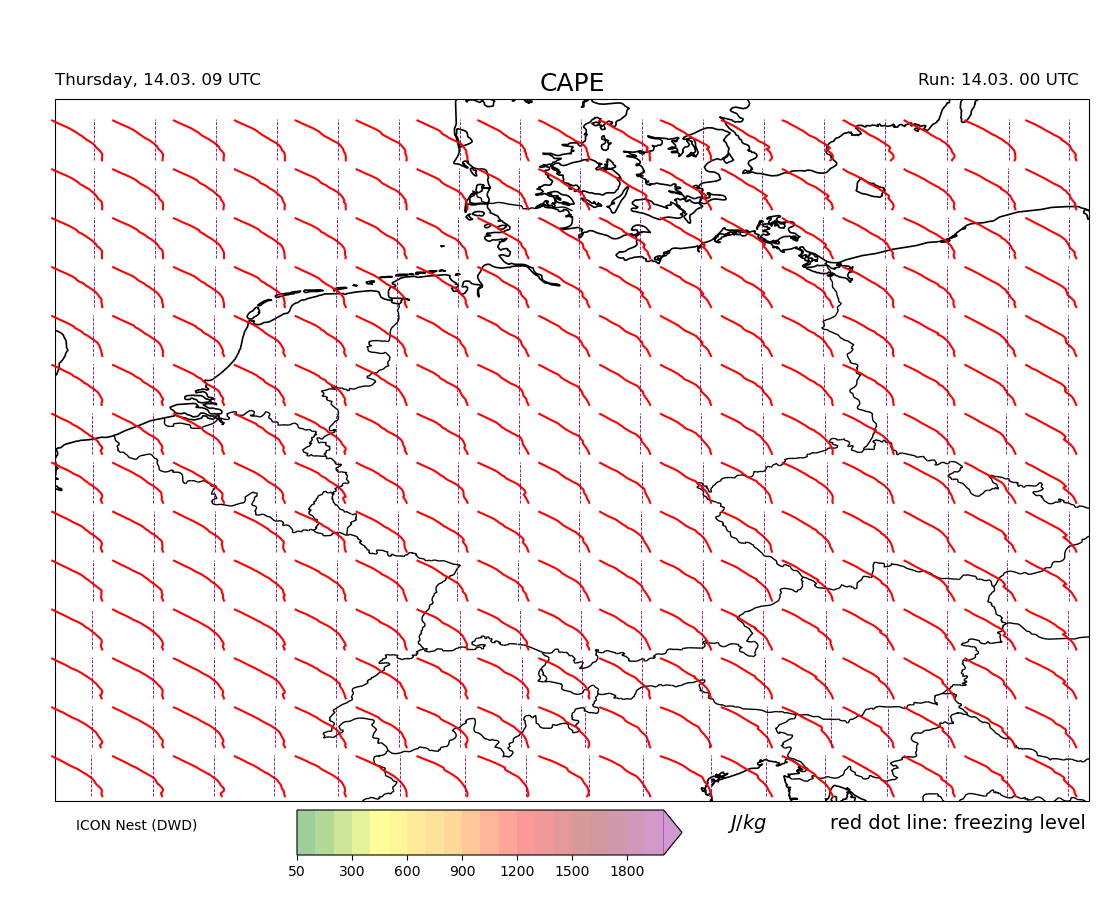
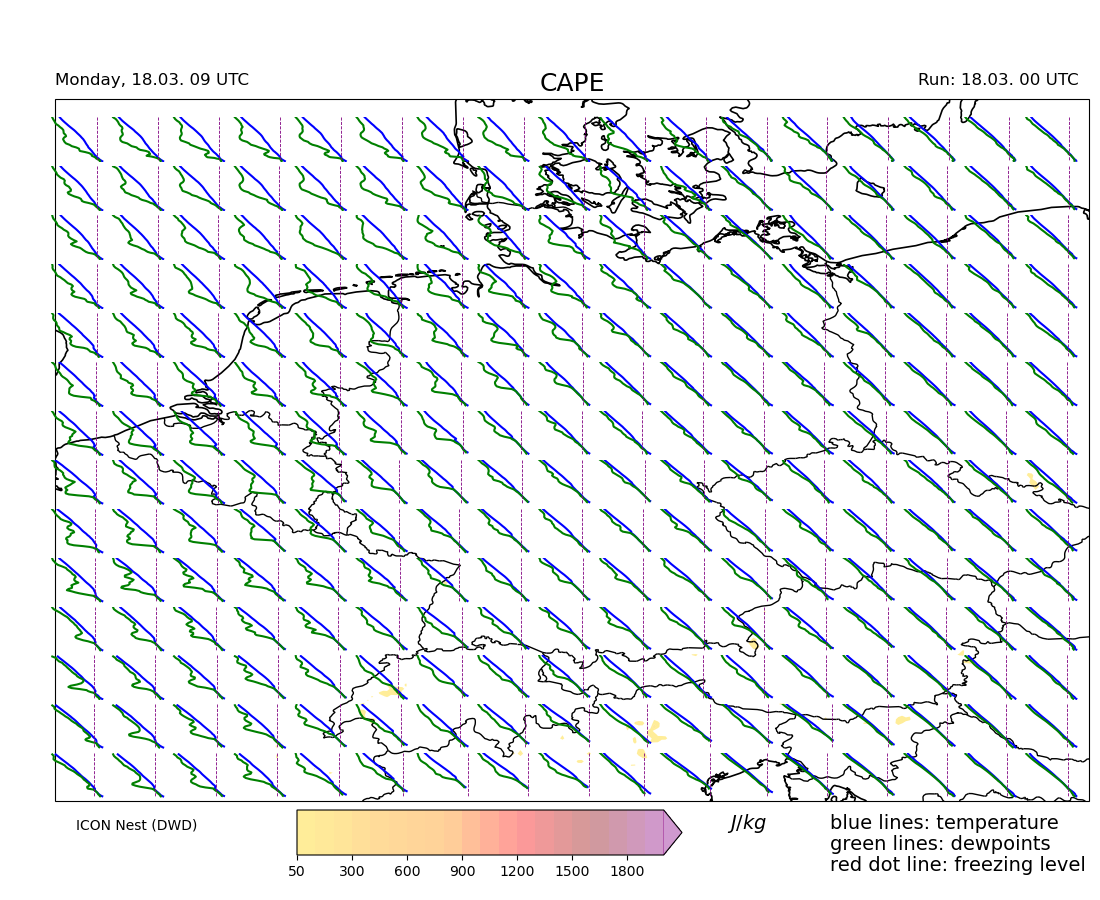
Add Stuve/Dewpoint

diff --git a/src/plotlib.py b/src/plotlib.py
@@ -8,6 +8,7 @@ import matplotlib
 matplotlib.use('Agg')
 import matplotlib.pyplot as plt
 from matplotlib.colors import LinearSegmentedColormap  # ListedColormap, BoundaryNorm,
+from matplotlib.projections import register_projection
 
 # cartopy
 import cartopy.crs as crs
@@ -18,7 +19,8 @@ states_provinces = cfeature.NaturalEarthFeature(
 
 # own moduls
 import utilitylib as ut
-import kinematiclib as kin
+import meteolib as met
+from skewT import *
 
 # ---------------------------------------------------------------------------------------------------------------------
 # create plot class
@@ -114,6 +116,7 @@ def two_plots(projection=crs.EuroPP(), lon1=3.56, lon2=16.5, lat1=46.2, lat2=55.
 clevs = np.array([50, 100, 200, 300, 400, 500, 600, 700, 800, 900, 1000,
                   1100, 1200, 1300, 1400, 1500, 1600, 1700, 1800, 1900, 2000])
 cmap = LinearSegmentedColormap.from_list("", ["green", "yellow", "orange", "red", "darkred", "darkmagenta"])
+cmap2= LinearSegmentedColormap.from_list("", ["gold", "orange", "darkorange", "red", "darkred", "darkmagenta"])
 
 # ---------------------------------------------------------------------------------------------------------------------
 
@@ -148,7 +151,7 @@ def test_plot (cape_fld, lats, lons, hour, run, titel='CAPE'):
 
 # ---------------------------------------------------------------------------------------------------------------------
 
-def soundingpoint(point, temp, ax, width=0.1, proj='polar', smooth=False):
+def soundingpoint(point, temp, q, pres, ax, width=0.1, proj='skewT', smooth=False):
     """
     Parameters:
     ------------
@@ -161,6 +164,7 @@ def soundingpoint(point, temp, ax, width=0.1, proj='polar', smooth=False):
     --------
     None
     """
+    register_projection(SkewXAxes)
 
     # this takes us from the data coordinates to the display coordinates.
     test = ax.transData.transform(point)
@@ -169,7 +173,7 @@ def soundingpoint(point, temp, ax, width=0.1, proj='polar', smooth=False):
     trans = ax.transAxes.inverted().transform(test)
 
     # create new axes
-    ax2 = plt.axes([trans[0]-width/2, trans[1]-width/2, width, width])
+    ax2 = plt.axes([trans[0]-width/2, trans[1]-width/2, width, width])  # , projection='skewx')
 
     ax2.get_xaxis().set_visible(False)
     ax2.get_yaxis().set_visible(False)
@@ -183,18 +187,23 @@ def soundingpoint(point, temp, ax, width=0.1, proj='polar', smooth=False):
     # ax2.plot(np.linspace(0, 2*np.pi, 100), np.zeros(100)+30, '-k', alpha=.3, lw=0.8)
 
     # calculate dewpoint
+    pres /= 100
+    dewpoint = met.temp_at_mixrat( met.q_to_mixrat(q)*1000.0, pres )
 
     # smoothing
     if smooth is True:
         temp[1:] = (temp[1:] + temp[:-1])/2
+        dewpoint[1:] = (dewpoint[1:] + dewpoint[:-1])/2
    
-    ax2.plot(temp[:40:1]-273.15, np.arange(temp[:40:1].size), 'r-', lw=1.5)
-    ax2.vlines(x=0, ymin=0, ymax=40, colors='purple', ls='--', lw=0.6) # freezing level
+    ax2.semilogy(temp[:40:1]-met.ZEROCNK, pres[:40:1], 'b-', lw=1.5)
+    ax2.semilogy(dewpoint[:40:1]-met.ZEROCNK, pres[:40:1], 'g-', lw=1.5)
+    ax2.vlines(x=0, ymin=300, ymax=1000, colors='purple', ls='--', lw=0.6) # freezing level
+    ax2.set_ylim(1050,300)
     #ax2.invert_xaxis()
 
 # ---------------------------------------------------------------------------------------------------------------------
 
-def sounding_plot(cape_fld, temp, lats, lons, hour, start, titel='CAPE', imfmt="png"):
+def sounding_plot(cape_fld, temp, q_fld, p_fld, lats, lons, hour, start, titel='CAPE', imfmt="png"):
     """
     Parameters:
     ------------
@@ -213,20 +222,26 @@ def sounding_plot(cape_fld, temp, lats, lons, hour, start, titel='CAPE', imfmt="
     fig, ax = ce_states(hour, start, projection=crs.PlateCarree())
     plt.title(titel, fontsize=titlesize)
 
-    wx = ax.contourf(lons, lats, cape_fld[:, :], levels=clevs, transform=crs.PlateCarree(), cmap=cmap, 
+    wx = ax.contourf(lons, lats, cape_fld[:, :], levels=clevs, transform=crs.PlateCarree(), cmap=cmap2, 
                      extend='max', alpha=0.4, antialiased=True)
+    
+    
+
 
     for i in range(275, 415, 10):
         for j in range(420, 670, 15):
             soundingpoint((lons[i, j], lats[i, j]),
                            np.mean(temp[:, i-1:i+1, j-1:j+1], axis=(1, 2)),
+                           np.mean(q_fld[:, i-1:i+1, j-1:j+1], axis=(1, 2)),
+                           np.mean(p_fld[:, i-1:i+1, j-1:j+1], axis=(1, 2)),
                            ax, width=0.05)  # , proj=crs.PlateCarree()
 
     cax = fig.add_axes([0.27, 0.05, 0.35, 0.05])
     fig.colorbar(wx, cax=cax, orientation='horizontal')
     ax.annotate(r'$J/kg$', xy=(0.65, -0.04), xycoords='axes fraction', fontsize=14)
-    ax.annotate('red dot line: freezing level', xy=(0.75, -0.04), xycoords='axes fraction', fontsize=14)
-
+    ax.annotate('red dot line: freezing level', xy=(0.75, -0.1), xycoords='axes fraction', fontsize=14)
+    ax.annotate('blue lines: temperature', xy=(0.75, -0.04), xycoords='axes fraction', fontsize=14)
+    ax.annotate('green lines: dewpoints', xy=(0.75, -0.07), xycoords='axes fraction', fontsize=14)
     name = f"./images/soundingmap_ce_{hour}.{imfmt}"
     plt.savefig(name)
     plt.close()
@@ -271,7 +286,7 @@ def hodopoint(point, u, v, ax, width=0.1, clim=40, proj='polar', smooth=False):
     # ax2.plot(np.linspace(0, 2*np.pi, 100), np.zeros(100)+30, '-k', alpha=.3, lw=0.8)
 
     # plot data
-    wdir, spd = kin.uv2spddir(u, v)
+    wdir, spd = met.uv2spddir(u, v)
 
     # smoothing
     if smooth is True:
@@ -387,7 +402,7 @@ def nixon_hodograph(point, u, v, p, height, ax, width=0.1, clim=40, proj='polar'
         i += 1
     i_6km = deepcopy(i)
 
-    rstu, rstv, lstu, lstv, mwu6, mwv6 = kin.non_parcel_bunkers_motion_experimental(u, v, p, i_500m, i_5km, i_6km)
+    rstu, rstv, lstu, lstv, mwu6, mwv6 = met.non_parcel_bunkers_motion_experimental(u, v, p, i_500m, i_5km, i_6km)
 
     u-=rstu
     v-=rstv
@@ -411,7 +426,7 @@ def nixon_hodograph(point, u, v, p, height, ax, width=0.1, clim=40, proj='polar'
     ax2.plot(np.linspace(0, 2*np.pi, 100), np.zeros(100)+10, '-k', alpha=.3, lw=0.8)
 
     # plot data
-    wdir, spd = kin.uv2spddir(u, v)
+    wdir, spd = met.uv2spddir(u, v)
 
     # smoothing
     if smooth is True:
@@ -423,7 +438,7 @@ def nixon_hodograph(point, u, v, p, height, ax, width=0.1, clim=40, proj='polar'
     ax2.plot(wdir[19:-20:2], spd[19:-20:2], 'b-', lw=1.5)
     ax2.scatter(0, 0, c="k", s=2, marker='x', alpha=0.75)
     
-    theta, mag = kin.uv2spddir(rstu, rstv)
+    theta, mag = met.uv2spddir(rstu, rstv)
     ax2.arrow(theta, 0, 0, mag, head_width=0.1, head_length=0.1)
 
 

diff --git a/src/skewT.py b/src/skewT.py
@@ -1,0 +1,162 @@
+from matplotlib.axes import Axes
+import matplotlib.transforms as transforms
+import matplotlib.axis as maxis
+import matplotlib.spines as mspines
+from matplotlib.projections import register_projection
+
+
+# The sole purpose of this class is to look at the upper, lower, or total
+# interval as appropriate and see what parts of the tick to draw, if any.
+class SkewXTick(maxis.XTick):
+    def update_position(self, loc):
+        # This ensures that the new value of the location is set before
+        # any other updates take place
+        self._loc = loc
+        super().update_position(loc)
+
+    def _has_default_loc(self):
+        return self.get_loc() is None
+
+    def _need_lower(self):
+        return (self._has_default_loc() or
+                transforms.interval_contains(self.axes.lower_xlim,
+                                             self.get_loc()))
+
+    def _need_upper(self):
+        return (self._has_default_loc() or
+                transforms.interval_contains(self.axes.upper_xlim,
+                                             self.get_loc()))
+
+    @property
+    def gridOn(self):
+        return (self._gridOn and (self._has_default_loc() or
+                transforms.interval_contains(self.get_view_interval(),
+                                             self.get_loc())))
+
+    @gridOn.setter
+    def gridOn(self, value):
+        self._gridOn = value
+
+    @property
+    def tick1On(self):
+        return self._tick1On and self._need_lower()
+
+    @tick1On.setter
+    def tick1On(self, value):
+        self._tick1On = value
+
+    @property
+    def label1On(self):
+        return self._label1On and self._need_lower()
+
+    @label1On.setter
+    def label1On(self, value):
+        self._label1On = value
+
+    @property
+    def tick2On(self):
+        return self._tick2On and self._need_upper()
+
+    @tick2On.setter
+    def tick2On(self, value):
+        self._tick2On = value
+
+    @property
+    def label2On(self):
+        return self._label2On and self._need_upper()
+
+    @label2On.setter
+    def label2On(self, value):
+        self._label2On = value
+
+    def get_view_interval(self):
+        return self.axes.xaxis.get_view_interval()
+
+
+# This class exists to provide two separate sets of intervals to the tick,
+# as well as create instances of the custom tick
+class SkewXAxis(maxis.XAxis):
+    def _get_tick(self, major):
+        return SkewXTick(self.axes, None, '', major=major)
+
+    def get_view_interval(self):
+        return self.axes.upper_xlim[0], self.axes.lower_xlim[1]
+
+
+# This class exists to calculate the separate data range of the
+# upper X-axis and draw the spine there. It also provides this range
+# to the X-axis artist for ticking and gridlines
+class SkewSpine(mspines.Spine):
+    def _adjust_location(self):
+        pts = self._path.vertices
+        if self.spine_type == 'top':
+            pts[:, 0] = self.axes.upper_xlim
+        else:
+            pts[:, 0] = self.axes.lower_xlim
+
+
+# This class handles registration of the skew-xaxes as a projection as well
+# as setting up the appropriate transformations. It also overrides standard
+# spines and axes instances as appropriate.
+class SkewXAxes(Axes):
+    # The projection must specify a name.  This will be used be the
+    # user to select the projection, i.e. ``subplot(111,
+    # projection='skewx')``.
+    name = 'skewx'
+
+    def _init_axis(self):
+        # Taken from Axes and modified to use our modified X-axis
+        self.xaxis = SkewXAxis(self)
+        self.spines['top'].register_axis(self.xaxis)
+        self.spines['bottom'].register_axis(self.xaxis)
+        self.yaxis = maxis.YAxis(self)
+        self.spines['left'].register_axis(self.yaxis)
+        self.spines['right'].register_axis(self.yaxis)
+
+    def _gen_axes_spines(self):
+        spines = {'top': SkewSpine.linear_spine(self, 'top'),
+                  'bottom': mspines.Spine.linear_spine(self, 'bottom'),
+                  'left': mspines.Spine.linear_spine(self, 'left'),
+                  'right': mspines.Spine.linear_spine(self, 'right')}
+        return spines
+
+    def _set_lim_and_transforms(self):
+        """
+        This is called once when the plot is created to set up all the
+        transforms for the data, text and grids.
+        """
+        rot = 45
+
+        # Get the standard transform setup from the Axes base class
+        Axes._set_lim_and_transforms(self)
+
+        # Need to put the skew in the middle, after the scale and limits,
+        # but before the transAxes. This way, the skew is done in Axes
+        # coordinates thus performing the transform around the proper origin
+        # We keep the pre-transAxes transform around for other users, like the
+        # spines for finding bounds
+        self.transDataToAxes = self.transScale + \
+            self.transLimits + transforms.Affine2D().skew_deg(rot, 0)
+
+        # Create the full transform from Data to Pixels
+        self.transData = self.transDataToAxes + self.transAxes
+
+        # Blended transforms like this need to have the skewing applied using
+        # both axes, in axes coords like before.
+        self._xaxis_transform = (transforms.blended_transform_factory(
+            self.transScale + self.transLimits,
+            transforms.IdentityTransform()) +
+            transforms.Affine2D().skew_deg(rot, 0)) + self.transAxes
+
+    @property
+    def lower_xlim(self):
+        return self.axes.viewLim.intervalx
+
+    @property
+    def upper_xlim(self):
+        pts = [[0., 1.], [1., 1.]]
+        return self.transDataToAxes.inverted().transform(pts)[:, 0]
+
+
+# Now register the projection with matplotlib so the user can select
+# it.

diff --git a/src/meteolib.py b/src/meteolib.py
@@ -1,16 +1,22 @@
 #!/usr/bin/python3
 ################################
 #
-# kinematiclib 
+# Meteorology library 
 #
 ################################
 
 import numpy as np
 
+# ---------------------------------------------------------------------------------------------------------------------
+# constants
+
+ROCP = 0.28571426       # R over Cp
+ZEROCNK = 273.15        # Zero Celsius in Kelvins
+GRAV = 9.80665          # Gravity
+TOL = 1e-10             # Floating Point Tolerance
 
 def uv2spddir(u,v):
-    val = 180./np.pi
-    rad = np.pi/180
+
     direction = np.rad2deg(np.arctan2(-u,v))
 
     if type(direction) == np.ndarray:
@@ -21,6 +27,44 @@ def uv2spddir(u,v):
 
     return (np.deg2rad(direction), np.sqrt(u*u + v*v))
 
+# ---------------------------------------------------------------------------------------------------------------------
+# thermodynamics
+
+
+def q_to_mixrat(q):
+    """
+    Parameters
+    ----------
+    q : specific humidity in kg/kg
+    """
+    return q/(1.0-q)
+
+def temp_at_mixrat(w, p):
+    """
+    Returns the temperature in K of air at the given mixing ratio in g/kg and pressure in hPa
+
+    Parameters
+    ----------
+    w : Mixing Ratio in g/kg as numpy.array
+    p : Pressure in hPa as numpy.array
+
+    Returns
+    -------
+    Temperature in K of air at given mixing ratio and pressure
+
+    """
+
+    # Constants Used
+    c1 = 0.0498646455 ; c2 = 2.4082965 ; c3 = 7.07475
+    c4 = 38.9114 ; c5 = 0.0915 ; c6 = 1.2035
+
+    x = np.log10(w * p / (622. + w))
+    x = (np.power(10.,((c1 * x) + c2)) - c3 + (c4 * np.power((np.power(10,(c5 * x)) - c6),2)))
+    return x
+
+
+# ---------------------------------------------------------------------------------------------------------------------
+# kinematics
 
 def mean_wind(u, v, ps, stu=0, stv=0):
     """

diff --git a/src/main.py b/src/main.py
@@ -99,13 +99,14 @@ def main():
         for level in range(config["levels"][0], config["levels"][1], steps):
             t_fld[lvl_idx,:,:] = ut.open_gribfile_multi("T", level, rundate, run, fp, path="./iconnest/")
             q_fld[lvl_idx,:,:] = ut.open_gribfile_multi("QV", level, rundate, run, fp, path="./iconnest/")
+            p_fld[lvl_idx,:,:] = ut.open_gribfile_multi("P", level, rundate, run, fp, path="./iconnest/")
 
             lvl_idx += 1
             if lvl_idx >= nlvl:
                 break
     
         print(np.nanmean(t_fld, axis=(1,2))-273.15)
-        plotlib.sounding_plot (cape_fld, t_fld, lats, lons, fp, run, titel='CAPE')
+        plotlib.sounding_plot (cape_fld, t_fld, q_fld, p_fld, lats, lons, fp, run, titel='CAPE')
     elif args.mode == "Basic":
         cape_fld, lats, lons = ut.open_gribfile_single(fieldname, rundate, run, fp, path="./iconnest/")
 
